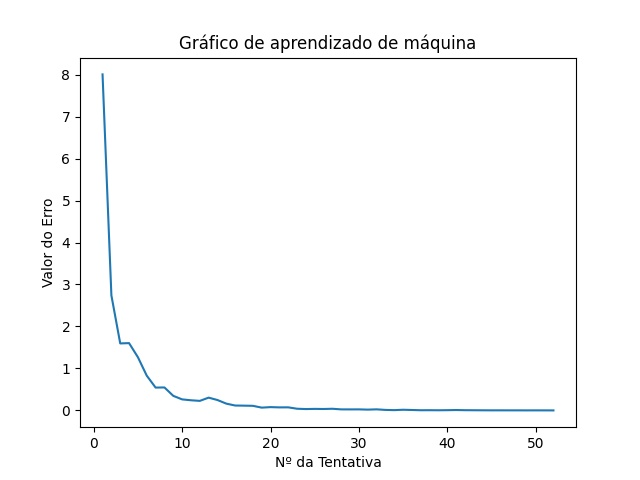
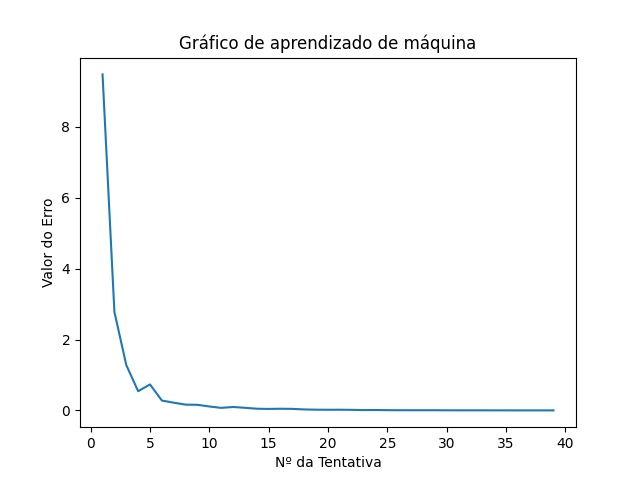
Atualizando

diff --git a/rede.py b/rede.py
@@ -18,8 +18,9 @@
     arraydeerros = []
     arraydetentativa = []
     rede = buildNetwork(69, 100, 100, 5)
-    base = SupervisedDataSet(69, 5)
+    base = SupervisedDataSet(69, 5) 
     print(rede)
+
     arquivo = open('base.txt', 'r')
     arquivo.seek(0, 0)
     for linha in arquivo.readlines():
@@ -56,7 +57,8 @@
     plt.title('Gráfico de aprendizado de máquina')
     plt.xlabel('Nº da Tentativa')
     plt.ylabel('Valor do Erro')
+    plt.savefig('grafico.jpg', format='jpg')
     plt.show()
-    plt.savefig('Grafico.png', format='png')
+    
 
-    rede.activate([10,1,1,6,2,13,15,15,10,1,3,0,0,2,2,0,14,10,16,11,20,18,5,0,5,0,0,4,0,4,4,4,0,4,0,3,0,0,0,0,0,9,0,4,4,0,2,0,0,0,0,4,2,5,4,0,0,0,0,5,0,5,5,0,2,5,9,0,4])
+    rede.activate([1,6,2,6,2,27,18,17,11,2,7,1,0,3,3,0,20,13,15,13,13,12,5,1,1,1,1,1,1,1,1,1,1,7,1,2,1,1,1,1,1,1,1,1,1,1,9,1,1,1,1,7,5,1,1,1,1,1,1,6,1,1,1,1,9,1,1,1,1])
